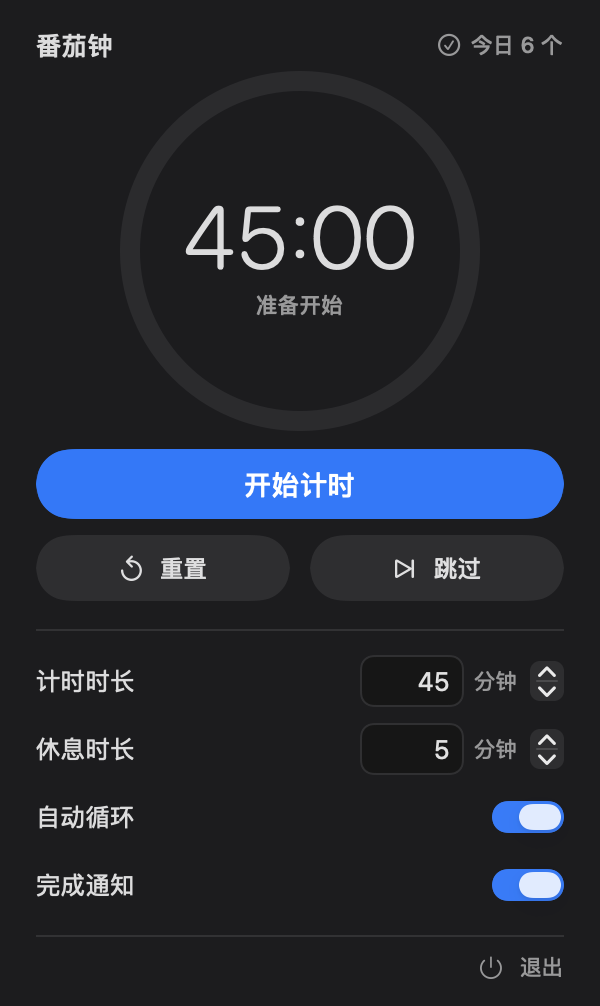
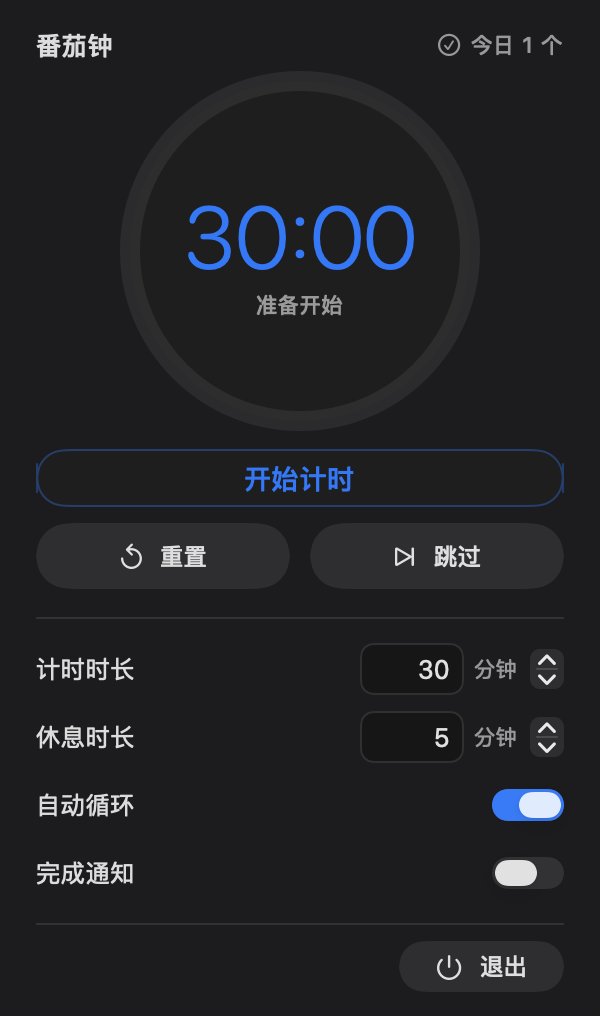
表盘与主按钮状态配色：计时实心白字，暂停白底彩字

diff --git a/Sources/PopoverView.swift b/Sources/PopoverView.swift
@@ -100,13 +100,20 @@ struct PopoverView: View {
 
     private var ringBody: some View {
         ZStack {
+            // 底色：计时中为强调色实心，其余为浅色底
             Circle()
-                .stroke(Color.primary.opacity(hover.isHovering ? 0.12 : 0.08), lineWidth: 10)
+                .fill(engine.isRunning ? tint : Color(nsColor: .textBackgroundColor))
+
+            Circle()
+                .stroke(engine.isRunning
+                        ? Color.white.opacity(hover.isHovering ? 0.30 : 0.22)
+                        : Color.primary.opacity(hover.isHovering ? 0.12 : 0.08),
+                        lineWidth: 10)
 
             if engine.progress > 0.002 {
                 Circle()
                     .trim(from: 0, to: engine.progress)
-                    .stroke(tint.gradient,
+                    .stroke(engine.isRunning ? Color.white.opacity(0.9) : tint,
                             style: StrokeStyle(lineWidth: 10, lineCap: .round))
                     .rotationEffect(.degrees(-90))
                     .animation(.linear(duration: 0.25), value: engine.progress)
@@ -116,16 +123,17 @@ struct PopoverView: View {
                 Text(engine.timeText)
                     .font(.system(size: 44, weight: .light, design: .rounded))
                     .monospacedDigit()
-                    .foregroundStyle(.primary)
+                    .foregroundStyle(engine.isRunning ? Color.white : tint)
 
                 Text(hover.isHovering ? engine.ringHint : engine.stateCaption)
                     .font(.system(size: 11, weight: .medium))
-                    .foregroundStyle(.secondary)
+                    .foregroundStyle(engine.isRunning ? Color.white.opacity(0.78) : Color.secondary)
             }
         }
         .frame(width: 170, height: 170)
         .contentShape(Circle())
         .scaleEffect(hover.isHovering ? 1.012 : 1)
+        .animation(.easeOut(duration: 0.2), value: engine.isRunning)
         .animation(.easeOut(duration: 0.15), value: hover.isHovering)
     }
 
@@ -152,12 +160,31 @@ struct PopoverView: View {
             Text(engine.primaryTitle)
                 .font(.system(size: 14, weight: .semibold))
                 .frame(maxWidth: .infinity)
-                .padding(.vertical, 3)
+                .padding(.vertical, 6)
         }
-        .buttonStyle(.borderedProminent)
-        .controlSize(.large)
-        .tint(tint)
-        .clipShape(Capsule())
+        .buttonStyle(FillButtonStyle(filled: engine.isRunning, tint: tint))
+    }
+
+    /// 计时中：实心底 + 白字；暂停 / 待机：浅色底 + 彩色字
+    private struct FillButtonStyle: ButtonStyle {
+        let filled: Bool
+        let tint: Color
+
+        func makeBody(configuration: Configuration) -> some View {
+            configuration.label
+                .foregroundStyle(filled ? Color.white : tint)
+                .background(
+                    Capsule().fill(filled ? tint : Color(nsColor: .textBackgroundColor))
+                )
+                .overlay(
+                    Capsule().strokeBorder(filled ? Color.clear : tint.opacity(0.35), lineWidth: 1)
+                )
+                .contentShape(Capsule())
+                .opacity(configuration.isPressed ? 0.85 : 1)
+                .scaleEffect(configuration.isPressed ? 0.99 : 1)
+                .animation(.easeOut(duration: 0.12), value: configuration.isPressed)
+                .animation(.easeOut(duration: 0.2), value: filled)
+        }
     }
 
     private var secondaryButtons: some View {

diff --git a/Sources/main.swift b/Sources/main.swift
@@ -155,6 +155,9 @@ final class AppDelegate: NSObject, NSApplicationDelegate, NSPopoverDelegate {
             }
             if env["POMODORO_SNAPSHOT_REST"] != nil {
                 engine.debugRestState()
+            } else if env["POMODORO_SNAPSHOT_PAUSED"] != nil {
+                engine.debugBeginWork(elapsed: 9 * 60 + 12)
+                engine.pause()
             } else if env["POMODORO_SNAPSHOT_RUNNING"] != nil {
                 engine.debugBeginWork(elapsed: 9 * 60 + 12)
             }
